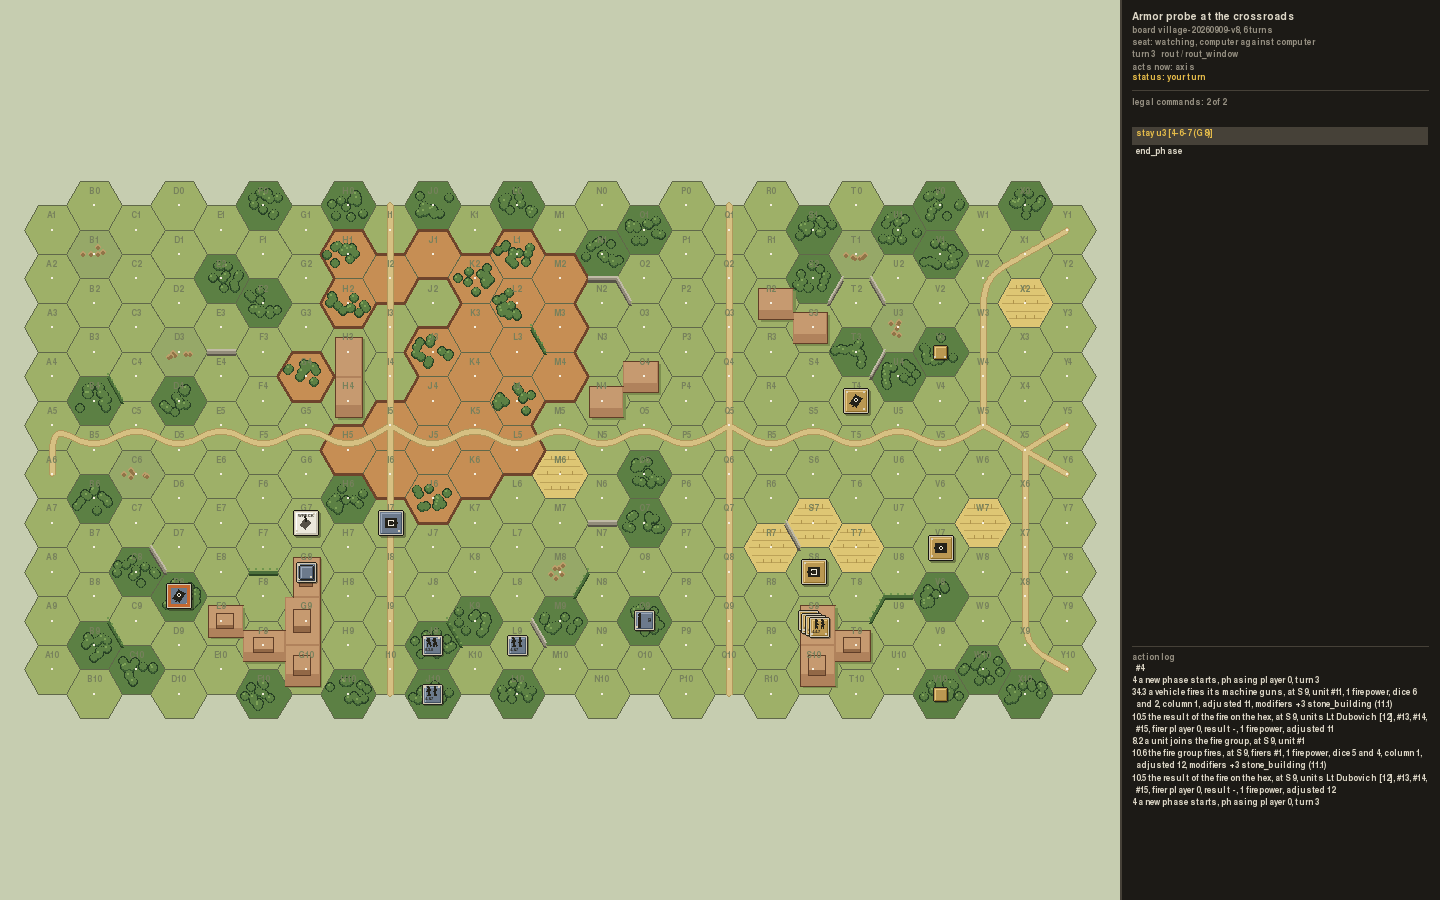
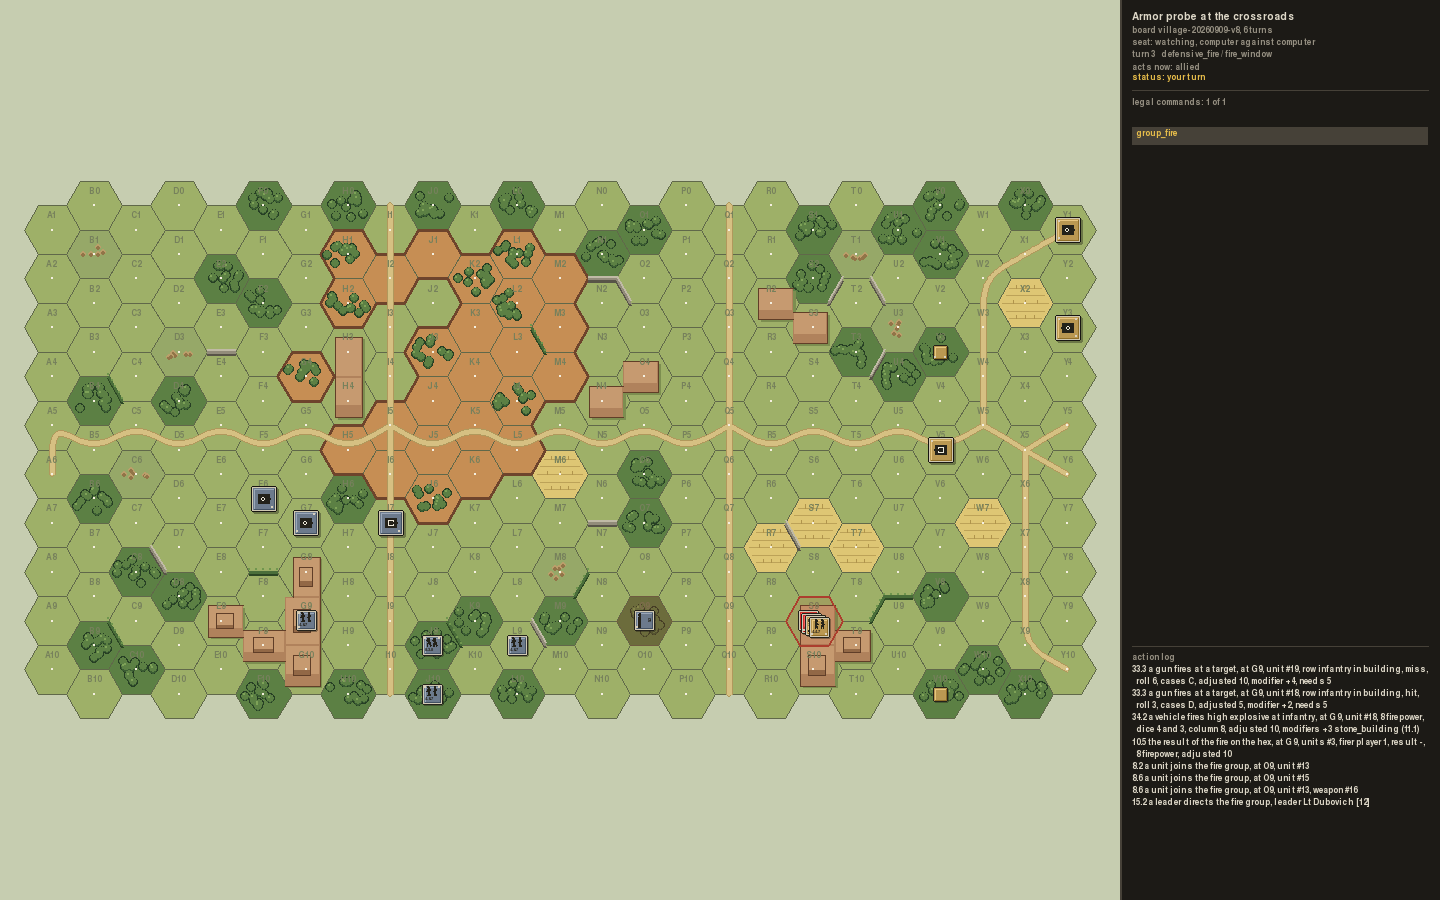
Working to imporove how the computer plays

diff --git a/src/slagents/scripted/armor.py b/src/slagents/scripted/armor.py
@@ -52,11 +52,13 @@ from slcore.rules import r28_vehicles, r30_vehicle_movement, r37_at_weapons
 
 ARMOR_FIRE_ACTIONS = ("at_fire", "afv_fire", "afv_mg", "afv_attack")
 UNREACHABLE = 10**9
-# The extra cost, in movement halves, of a hex that needs the breakdown die of rule 39.1. A
-# German vehicle breaks down on a 5 or a 6 there, and an assault gun of the first version of
-# this policy drove into one on its first turn and stood for the rest of the game. A tank
-# goes around rough ground unless the way around is much longer.
-BREAKDOWN_PENALTY = 8
+# The extra cost, in movement halves, of a hex that needs the breakdown die of rule 39.1,
+# for each face of the die that breaks the vehicle there: a German vehicle breaks on a 5 or
+# a 6 (two faces, 24 halves, two turns of a tank's movement), another army's on a 6 (12).
+# An assault gun of the first version of this policy drove into a wood on its first turn
+# and stood for the rest of the game. A tank goes around rough ground unless the way around
+# is much longer.
+BREAKDOWN_PENALTY = 12
 
 
 @dataclass(frozen=True)
@@ -185,14 +187,18 @@ class ArmorPolicy:
         self._positions = {key: found}
         return found
 
-    def _field(self, state: State, vehicle, goals: frozenset[HexRef]) -> dict[HexRef, int]:
+    def _field(self, state: State, vehicle, goals: frozenset[HexRef], blocked: frozenset[HexRef] = frozenset()) -> dict[HexRef, int]:
         """The cost in movement halves from each hex to the nearest goal, over the vehicle
-        entry costs of the core, for a vehicle of this type."""
-        key = (self._picture(state), vehicle.type_key, goals)
+        entry costs of the core, for a vehicle of this type.
+
+        A route does not go through a hex of `blocked`, the hexes that `_best_step` does not
+        enter. A route through one gave a hex a cost that no step could reach, and an
+        assault gun behind a tank of its own side stood there for four turns.
+        """
+        key = (self._picture(state), vehicle.type_key, goals, blocked)
         found = self._fields.get(key)
         if found is not None:
             return found
-        ctx = self.engine.vehicle_ctx
         board = self.engine.board
         dist: dict[HexRef, int] = {}
         heap = [(0, g) for g in sorted(goals)]
@@ -202,20 +208,33 @@ class ArmorPolicy:
             if here in dist:
                 continue
             dist[here] = d
+            if here in blocked:
+                continue
             for there in board.neighbors(here):
                 if there in dist:
                     continue
                 if r30_vehicle_movement.enemy_vehicle_in(state, self.player, there) is not None:
                     continue
-                probe = vehicle.with_(hex=there, facing=r28_vehicles.facing_towards(there, here))
-                cost, _, breakdown = r30_vehicle_movement.entry_cost_halves(ctx, state, probe, here)
+                cost = self._step_cost(state, vehicle, there, here)
                 if cost is None:
                     continue
-                heapq.heappush(heap, (d + cost + (BREAKDOWN_PENALTY if breakdown else 0), there))
+                heapq.heappush(heap, (d + cost, there))
         if len(self._fields) > 32:
             self._fields.clear()
         self._fields[key] = dist
         return dist
+
+    def _step_cost(self, state: State, vehicle, src: HexRef, dst: HexRef) -> int | None:
+        """The cost in movement halves of one step from src to dst, with the risk of the
+        breakdown die of rule 39.1 as extra cost, or None when the vehicle cannot enter."""
+        probe = vehicle.with_(hex=src, facing=r28_vehicles.facing_towards(src, dst))
+        cost, _, breakdown = r30_vehicle_movement.entry_cost_halves(self.engine.vehicle_ctx, state, probe, dst)
+        if cost is None:
+            return None
+        if breakdown:
+            faces = 7 - r30_vehicle_movement.breakdown_number(self.engine.types, vehicle)
+            cost += BREAKDOWN_PENALTY * faces
+        return cost
 
     # ------------------------------------------------------------------- drive
 
@@ -268,14 +287,22 @@ class ArmorPolicy:
             if u.is_vehicle and u.id != vehicle.id and u.hex is not None and not u.wreck and not u.eliminated
         )
         goals = (positions or frozenset(self._objectives())) - taken
-        field = self._field(state, vehicle, goals) if goals else {}
+        blocked = taken | frozenset(self._enemy_infantry(state))
+        field = self._field(state, vehicle, goals, blocked) if goals else {}
+        # The cost of a move is the step itself (its entry cost and the risk of the breakdown
+        # die) and the route from where it ends. The field holds only the route, so a step
+        # into a wood that ended one hex nearer looked as good as a step on open ground, and
+        # two German tanks drove into the woods on their first turn and broke down.
         best: LegalCommand | None = None
-        best_cost = UNREACHABLE + 1 if leaving else field.get(vehicle.hex, UNREACHABLE)
+        here = field.get(vehicle.hex, UNREACHABLE)
+        best_cost = 2 * UNREACHABLE + 1 if leaving else (here + 1 if here < UNREACHABLE else UNREACHABLE)
         for lc in sorted(moves, key=lambda lc: lc.id):
             dst = lc.command.hex
             if dst is None or dst in taken or r30_vehicle_movement.enemy_infantry_in(state, self.player, dst):
                 continue
-            cost = field.get(dst, UNREACHABLE)
+            rest = field.get(dst, UNREACHABLE)
+            step = self._step_cost(state, vehicle, vehicle.hex, dst)
+            cost = rest + (UNREACHABLE if step is None else step)
             if cost < best_cost:
                 best, best_cost = lc, cost
         return best

diff --git a/tests/armor/test_armor_policy.py b/tests/armor/test_armor_policy.py
@@ -117,4 +117,58 @@ def test_the_route_avoids_ground_that_needs_the_breakdown_die():
                 if event.kind == "vehicle_move":
                     vehicle_moves += 1
     assert vehicle_moves >= 40
-    assert breakdowns <= 0.1 * vehicle_moves, f"{breakdowns} breakdown rolls in {vehicle_moves} moves"
+    assert breakdowns <= 0.02 * vehicle_moves, f"{breakdowns} breakdown rolls in {vehicle_moves} moves"
+
+
+@pytest.mark.parametrize("seed", [1, 2, 3])
+def test_each_german_vehicle_of_v7_drives_and_fires(seed):
+    """The owner watched v7 against v6 on scenario 4: "Two of the tanks on the AXIS side
+    appear to move once, then never move again during the game and never fire." The route
+    compared only the cost from the next hex, so a step into a wood looked free, and two
+    MkIVs drove into the woods on turn 1 and broke down (rule 39.1). Then an assault gun
+    whose route went through the hex of its own tank stood for four turns. Each German
+    vehicle now drives on and fires, and none enters ground that needs the breakdown die."""
+    engine = build_engine(SCENARIO)
+    state = engine.new_game(seed)
+    agents = {0: make_agent("v7", engine, seed, 0), 1: make_agent("v6", engine, seed, 1)}
+    fired: Counter = Counter()
+    moved: Counter = Counter()
+    breakdowns: Counter = Counter()
+    while not state.game_over:
+        frame = engine.legal_commands(state)
+        chosen = frame.by_id(decide(agents[state.active], state, frame))
+        state, events = engine.apply(state, chosen.command, frame)
+        for event in events:
+            if event.kind in ("to_hit", "afv_fire", "afv_mg_fire"):
+                fired[event.data["unit"]] += 1
+            if event.kind == "vehicle_move":
+                moved[event.data["unit"]] += 1
+            if event.kind == "breakdown_roll":
+                breakdowns[event.data["unit"]] += 1
+    german = [u for u in state.units if u.is_vehicle and u.player == 0]
+    assert len(german) == 3
+    for unit in german:
+        assert breakdowns[unit.id] == 0, f"vehicle {unit.id} took the breakdown die (seed {seed})"
+        assert moved[unit.id] >= 5, f"vehicle {unit.id} drove {moved[unit.id]} hexes (seed {seed})"
+        assert fired[unit.id] > 0, f"vehicle {unit.id} never fired (seed {seed})"
+
+
+def test_a_step_pays_for_the_ground_it_enters():
+    """The cost of a step into a wood is its entry cost and the risk of rule 39.1, and the
+    risk of a German vehicle (a 5 or a 6) is twice that of a Russian one (a 6)."""
+    from slagents.scripted.armor import BREAKDOWN_PENALTY, ArmorPolicy
+
+    engine = build_engine(SCENARIO)
+    state = engine.new_game(1)
+    board = engine.board
+    wood = next(h for h in board.order if board.hex(h).terrain == "woods")
+    src = next(n for n in board.neighbors(wood) if board.hex(n).terrain == "open")
+    from slcore.rules.r28_vehicles import facing_towards
+
+    risk = {}
+    for player in (0, 1):
+        vehicle = next(u for u in state.units if u.is_vehicle and u.player == player)
+        probe = vehicle.with_(hex=src, facing=facing_towards(src, wood))
+        entry = r30_vehicle_movement.entry_cost_halves(engine.vehicle_ctx, state, probe, wood)[0]
+        risk[player] = ArmorPolicy(engine, player)._step_cost(state, probe, src, wood) - entry
+    assert risk == {0: 2 * BREAKDOWN_PENALTY, 1: BREAKDOWN_PENALTY}

diff --git a/src/slcards/card.py b/src/slcards/card.py
@@ -27,6 +27,7 @@ os.environ.setdefault("SDL_VIDEODRIVER", "dummy")
 
 import pygame  # noqa: E402
 
+from slcore.scenario import band_text  # noqa: E402
 from slwindow import theme  # noqa: E402
 from slwindow.counters import _counter  # noqa: E402
 
@@ -264,19 +265,43 @@ def _turn_chart(surface: pygame.Surface, scenario: dict[str, Any], fonts: dict[s
     return max(ly, y + box_h) + 4
 
 
+def _terrain_words(value: Any) -> str:
+    kinds = [value] if isinstance(value, str) else list(value)
+    # The card has two lines for a set up area, so the two building kinds are one word.
+    if "stone_building" in kinds and "wooden_building" in kinds:
+        kinds = ["buildings"] + [k for k in kinds if k not in ("stone_building", "wooden_building")]
+    words = [str(k).replace("_", " ") for k in kinds]
+    if len(words) <= 2:
+        return " or ".join(words)
+    return ", ".join(words[:-1]) + f", or {words[-1]}"
+
+
 def _group_label(group: dict[str, Any]) -> str:
     """The set up area of one group, in the words of the scenario.
 
     A group names a zone, a band of columns, and a rank by building size. The card says the
     rank in plain words, because the printed board layout is not in this repository (DR-06).
+    The zone `columns` is a band of hex columns, and not a march column: the card said "In a
+    columns", and the owner read it as an order to set up on a road in a column.
     """
     area = group.get("area", {})
-    zone = str(area.get("zone", "")).replace("_", " ")
-    rank = area.get("rank")
-    if rank is None:
-        return f"In a {zone}"
-    ordinals = {0: "largest", 1: "second largest", 2: "third largest", 3: "fourth largest", 4: "fifth largest"}
-    return f"In the {ordinals.get(rank, str(rank) + 'th')} {zone}"
+    zone = str(area.get("zone", ""))
+    if zone == "stone_building":
+        rank = area.get("rank")
+        ordinals = {0: "largest", 1: "second largest", 2: "third largest", 3: "fourth largest", 4: "fifth largest"}
+        size = "a" if rank is None else "the " + ordinals.get(rank, str(rank) + "th")
+        return f"In {size} stone building"
+    if zone == "edge":
+        text = f"Within {int(area.get('depth', 1))} hexes of the {area.get('side', 'west')} edge"
+    else:
+        text = f"Anywhere {band_text(area)}"
+    if area.get("terrain") is not None:
+        text += f", in {_terrain_words(area['terrain'])}"
+    if area.get("not_terrain") is not None:
+        text += f", not in {_terrain_words(area['not_terrain'])}"
+    if area.get("road") is not None:
+        text += ", on a road" if area["road"] else ", off the roads"
+    return text
 
 
 GROUP_COLS = 3        # how many group cells sit across the block, like the 1977 card

diff --git a/tests/cards/test_scenario_card.py b/tests/cards/test_scenario_card.py
@@ -91,3 +91,18 @@ def test_every_scenario_renders() -> None:
     """No scenario in the data raises when it renders."""
     for name in SCENARIOS:
         card.render_card(_load(name))
+
+
+def test_a_band_of_columns_reads_as_a_place_and_fits_two_lines() -> None:
+    """The zone `columns` is a band of hex columns. The card said "In a columns", and the
+    owner read it as an order to set up the tanks on a road in a march column."""
+    pygame.font.init()
+    data = json.loads(resources.files("sldata.scenarios").joinpath("s04_armor_probe.json").read_text(encoding="utf-8"))
+    labels = {g["id"]: card._group_label(g) for side in data["sides"] for g in side["groups"]}
+    assert labels["a_tanks"] == "Anywhere in columns A to C, not in buildings or woods"
+    assert labels["l_tanks"] == "Anywhere in columns W to Y, not in buildings or woods"
+    assert labels["a_stahler"] == "In the largest stone building"
+    font = pygame.font.SysFont("dejavusans,arial,helvetica", 13, bold=True)
+    for text in labels.values():
+        assert "a columns" not in text
+        assert len(card._wrap(text, font, 260)) <= card.TITLE_LINES

diff --git a/tests/agents/test_push_out_frame.py b/tests/agents/test_push_out_frame.py
@@ -22,8 +22,10 @@ SCENARIO = "s04_armor_probe"
 # The games that the fixture reads, in sequence, until one reaches the window. The agents
 # change their play from slice to slice, so the fixture reads more than one game.
 # Since the armor policy (2026-10-10) a tank overruns only a weak target, and the window
-# comes in about one game in sixty; the first two games are ones that reach it.
-GAMES = ((24, ("v6", "v6")), (30, ("v7", "v3"))) + tuple(
+# comes in about one game in sixty; the first two games are ones that reach it. Since the
+# armor step pays for the ground it enters (2026-10-10), the tanks keep out of the woods and
+# one game in 540 of seeds 1 to 60 reaches it: seed 7, v6 against v3.
+GAMES = ((7, ("v6", "v3")), (24, ("v6", "v6")), (30, ("v7", "v3"))) + tuple(
     (seed, pair) for seed in range(1, 13) for pair in (("v7", "v3"), ("v3", "v3"), ("v3", "v7"))
 )
 

diff --git a/src/slcore/api.py b/src/slcore/api.py
@@ -205,7 +205,7 @@ SURFACE: dict[str, tuple[str, ...]] = {
     "slcore.rules.r28_vehicles": ("facing_towards", "in_covered_arc", "vehicle_in"),
     # The route and the firing positions of the armor policy (`slagents/scripted/armor.py`,
     # 2026-10-10): the entry cost of a hex, the stops of rule 30.8, and the AT weapons.
-    "slcore.rules.r30_vehicle_movement": ("enemy_infantry_in", "enemy_vehicle_in", "entry_cost_halves", "must_leave"),
+    "slcore.rules.r30_vehicle_movement": ("breakdown_number", "enemy_infantry_in", "enemy_vehicle_in", "entry_cost_halves", "must_leave"),
     "slcore.rules.r34_afv_vs_infantry": ("firepower_halves",),
     "slcore.rules.r37_at_weapons": ("anti_tank_weapons",),
     "slcore.rules.victory": (

diff --git a/VIBE_HISTORY.md b/VIBE_HISTORY.md
@@ -4,6 +4,49 @@ The session log, newest entry first. This file gives the next session, human or 
 
 ---
 
+## 2026-10-10 - Two German tanks that stood: the armor route, and the card's "columns"
+
+The owner watched v7 (Axis) against v6 on scenario 4: "Two of the tanks on the AXIS side
+appear to move once, then never move again during the game and never fire." Also: "the
+scenario calls for some units to be in collumns, but the two computer sides do not appear
+to set up the units on a road in a column."
+
+- Seed 1 showed it at once. The two MkIVF2 drove into woods on turn 1 (D8, D4), took the
+  breakdown die of rule 39.1 (a 5 or a 6 for a German vehicle), and were immobilized; in the
+  west woods they had no line of sight, so they never fired. The core was right.
+- Cause one, `armor.py`: `_best_step` compared only the route cost from the next hex. The
+  field holds the cost from a hex to a goal, not the cost of entering it, so a step into a
+  wood (12 halves and the breakdown risk) looked as good as a step on open ground (2). A
+  tie went to the lower command ID, which was the wood. Now each step adds its own entry
+  cost and the risk (`_step_cost`), and the risk is `BREAKDOWN_PENALTY` (12) for each face
+  of the die that breaks the vehicle: 24 for a German vehicle, 12 for another army.
+- Cause two, found by the trace after the first fix: the route field went through a hex
+  that held a vehicle of the same side, and `_best_step` does not enter one. With the step
+  cost counted, no other step was as good, and the StuG stood at G6 for four turns. The
+  field now does not route through the hexes the step refuses (own vehicles, enemy
+  infantry), and those hexes are in the cache key.
+- `breakdown_number` of rule 30 is now in `slcore.api.SURFACE`.
+- Measured over 30 seeds each of v7-v6, v6-v7, v7-v7, and v3-v6 (120 games): breakdown
+  rolls 514 before, 0 after. Axis wins 3 before, 10 after; scenario 4 still favours the
+  Allied side, which stays a balance item.
+- New tests: each German vehicle of v7 against v6 (seeds 1 to 3) drives at least five
+  hexes, fires, and takes no breakdown die (it fails on the old code at seed 1, vehicle 9);
+  the step cost of a wood carries twice the risk for a German vehicle. The old route test
+  now allows 2 percent breakdown rolls, not 10.
+- The "columns": the zone `columns` is a band of hex columns (A to C for the Axis
+  vehicles), not a march column, and the scenario has no column order. The card said
+  "In a columns". `slcards.card._group_label` now says "Anywhere in columns A to C, not in
+  buildings or woods", in two lines; a building group keeps its short label. Test added.
+- `docs/images/window_armor_probe.png` made again: v3's tanks take another route now.
+- The push out fixture (`tests/agents/test_push_out_frame.py`) found no game: the window of
+  rule 35.8 comes after an overrun, and now one game in 540 (seeds 1 to 60, nine pairs)
+  reaches it. Seed 7, v6 against v3, is first in `GAMES`.
+- Full suite after the change: 1,877 passed, 7 skipped; the failures were the client
+  comparisons, the nine push out errors (fixed above), and `test_workers` once, which
+  passes alone and in its file.
+
+---
+
 ## 2026-10-10 - Documentation after the merge
 
 - `docs/ARCHITECTURE.md` section 11 (the module layout) had the tree of slice 18. It now
